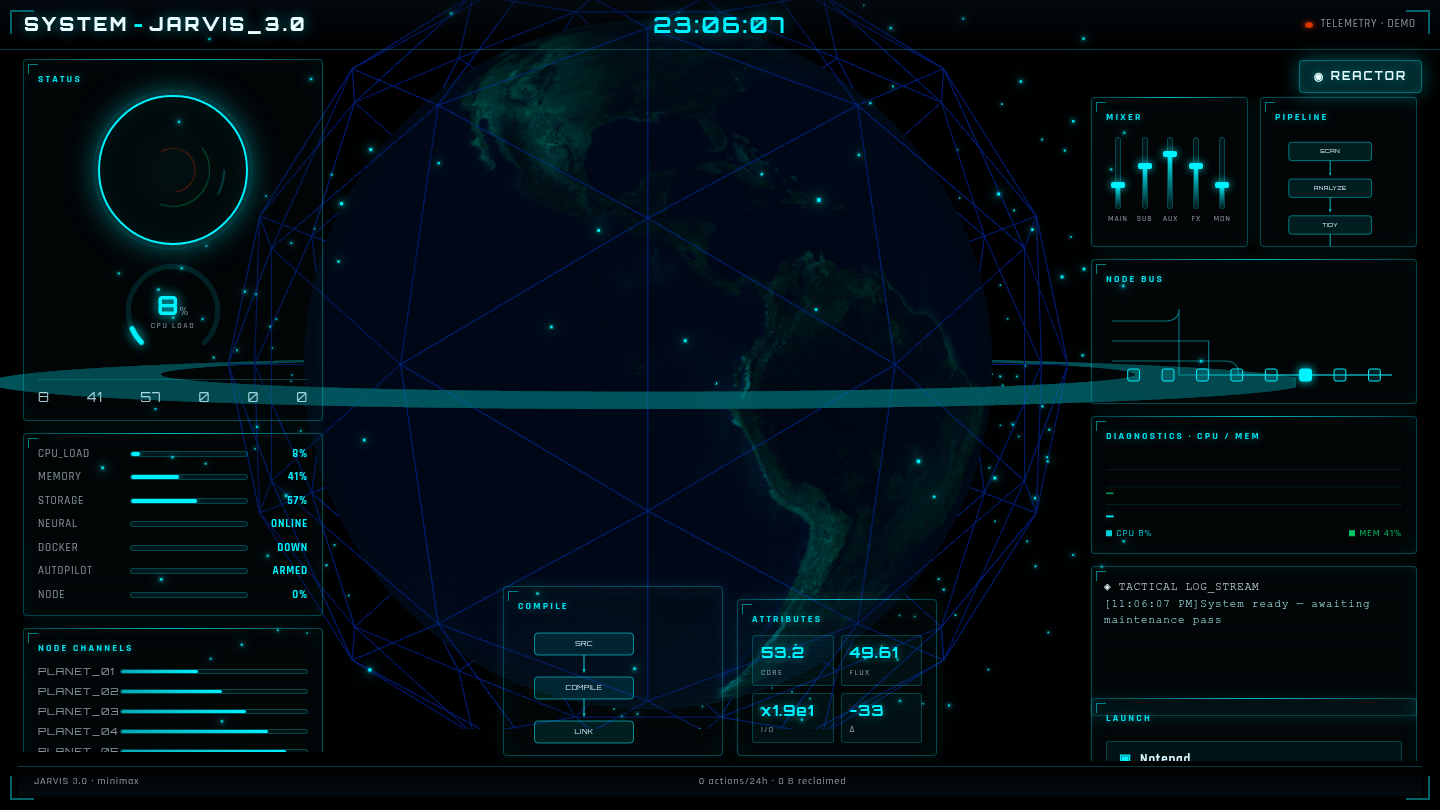
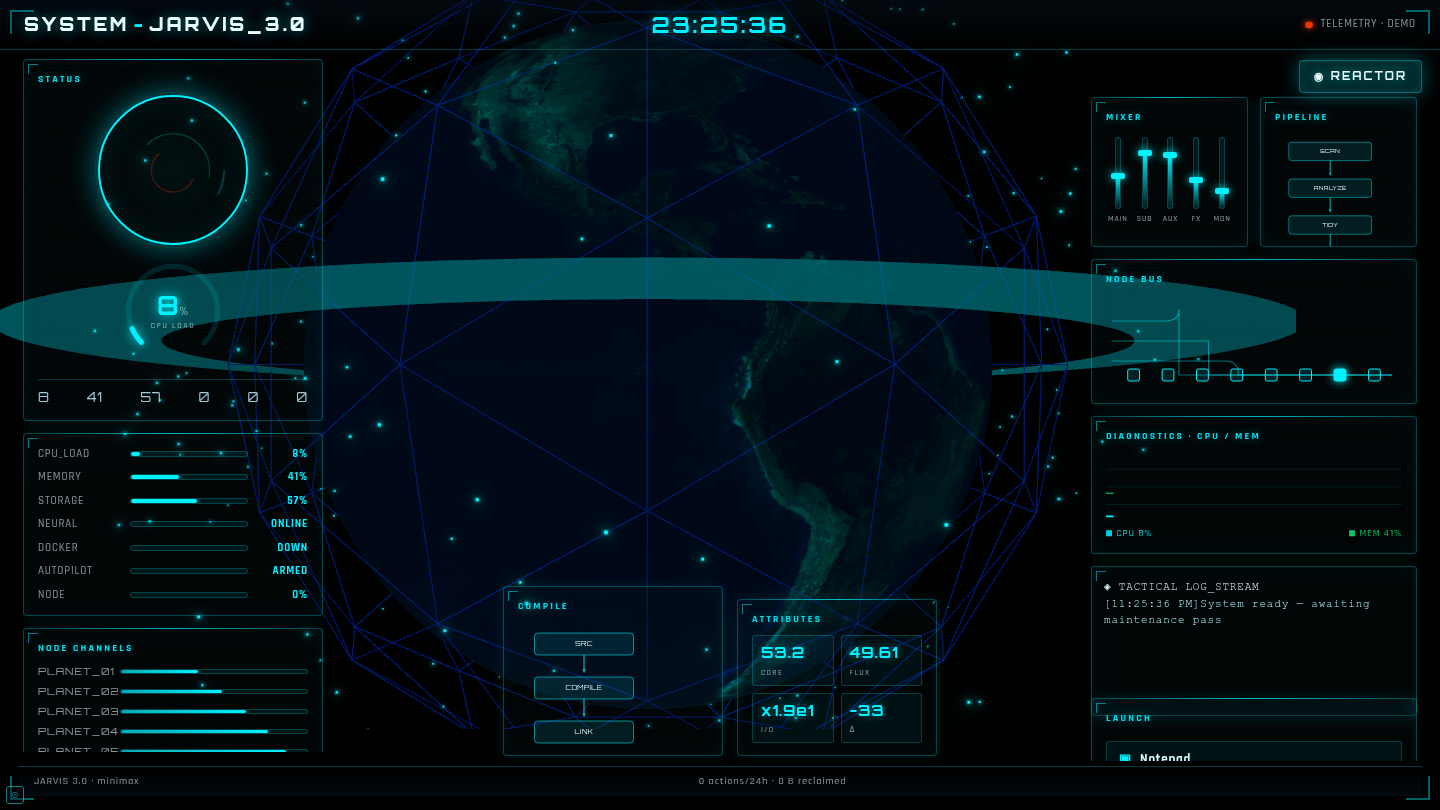
feat(dashboard): gesture debug overlay + align tsc scope to live source
The camera→MediaPipe→handTrackingRef pipeline already matched the proven
1.0.0 reference byte-for-byte (VideoFeed.tsx, mediapipeService.ts identical;
HolographicEarth + ReactorCore read rotationControl/expansionFactor/isPinching
exactly as the original). This adds the missing on-screen proof and tightens
the typecheck scope.

- Add GestureDebugOverlay (top-left, monospace, hidden by default; toggle via
  ?debug or the corner button). Polls the SAME handTrackingRef both 3D views
  consume on its own rAF loop — never triggers React re-renders — showing live
  L/R hand presence, rotationControl x/y, expansionFactor %, and pinch state.
- Mount it once at App level beside VideoFeed so it stays live across the
  Reactor<->Globe toggle.
- Scope tsconfig include/exclude to the live app source so `tsc --noEmit`
  passes 0 errors without type-checking the _gesture_reference/ snapshot (kept
  intact as the source of truth) or the electron build/ helpers.
- Extend _verify.mjs to assert the overlay is hidden by default and renders all
  fields with ?debug; capture _verify_debug_overlay.png.

Camera-absent path is the reference's own graceful catch: no crash, consumers
fall back to ambient animation. Verified headless (no webcam): build exit 0,
tsc 0 errors, reactor+globe render+toggle, overlay renders, 0 fatal errors.

diff --git a/lib/dashboard_app/components/GestureDebugOverlay.tsx b/lib/dashboard_app/components/GestureDebugOverlay.tsx
@@ -1,0 +1,107 @@
+import React, { useEffect, useRef, useState } from 'react';
+import { HandTrackingState } from '../types';
+
+interface GestureDebugOverlayProps {
+  handTrackingRef: React.MutableRefObject<HandTrackingState>;
+}
+
+// Live proof the camera → MediaPipe → handTrackingRef pipeline is wired
+// end-to-end. handTrackingRef is mutated every frame by <VideoFeed> and never
+// triggers React re-renders, so this overlay polls it on its own rAF loop and
+// mirrors the exact values both the reactor and globe consume. Hidden by
+// default; shown when the URL has ?debug or the user clicks the corner button.
+const GestureDebugOverlay: React.FC<GestureDebugOverlayProps> = ({ handTrackingRef }) => {
+  const [visible, setVisible] = useState(() => {
+    try { return new URLSearchParams(window.location.search).has('debug'); } catch { return false; }
+  });
+
+  // Snapshot of the ref, refreshed on a rAF loop only while visible.
+  const [snap, setSnap] = useState<HandTrackingState>({ leftHand: null, rightHand: null });
+  const rafRef = useRef<number | null>(null);
+
+  useEffect(() => {
+    if (!visible) return;
+    let mounted = true;
+    const tick = () => {
+      if (!mounted) return;
+      const s = handTrackingRef.current;
+      setSnap({ leftHand: s.leftHand, rightHand: s.rightHand });
+      rafRef.current = requestAnimationFrame(tick);
+    };
+    rafRef.current = requestAnimationFrame(tick);
+    return () => {
+      mounted = false;
+      if (rafRef.current) cancelAnimationFrame(rafRef.current);
+    };
+  }, [visible, handTrackingRef]);
+
+  const { leftHand, rightHand } = snap;
+  const fmt = (n: number) => (n >= 0 ? ' ' : '') + n.toFixed(2);
+  const rc = rightHand?.rotationControl ?? { x: 0, y: 0 };
+  const expPct = Math.round((leftHand?.expansionFactor ?? 0) * 100);
+  const pinch = (leftHand?.isPinching ?? false) || (rightHand?.isPinching ?? false);
+
+  return (
+    <>
+      {/* Tiny always-present toggle (bottom-left corner) so the overlay is
+          reachable without editing the URL. */}
+      <button
+        type="button"
+        onClick={() => setVisible((v) => !v)}
+        aria-pressed={visible}
+        title="Toggle gesture debug overlay"
+        style={{
+          position: 'fixed',
+          left: 6,
+          bottom: 6,
+          zIndex: 9999,
+          width: 18,
+          height: 18,
+          lineHeight: '16px',
+          fontFamily: 'monospace',
+          fontSize: 11,
+          color: visible ? '#050A14' : '#1AE6F5',
+          background: visible ? '#1AE6F5' : 'rgba(5,10,20,0.6)',
+          border: '1px solid #1AE6F5',
+          borderRadius: 3,
+          cursor: 'pointer',
+          padding: 0,
+          opacity: 0.55,
+        }}
+      >
+        ⊙
+      </button>
+
+      {visible && (
+        <div
+          data-testid="gesture-debug-overlay"
+          style={{
+            position: 'fixed',
+            top: 8,
+            left: 8,
+            zIndex: 9998,
+            fontFamily: 'monospace',
+            fontSize: 11,
+            lineHeight: 1.45,
+            color: '#1AE6F5',
+            background: 'rgba(5,10,20,0.78)',
+            border: '1px solid rgba(26,230,245,0.45)',
+            borderRadius: 4,
+            padding: '6px 8px',
+            pointerEvents: 'none',
+            whiteSpace: 'pre',
+            textShadow: '0 0 4px rgba(26,230,245,0.5)',
+          }}
+        >
+          <div style={{ color: '#FFC800', fontWeight: 700 }}>GESTURE DEBUG</div>
+          <div>L hand : {leftHand ? 'YES' : 'no '}   R hand : {rightHand ? 'YES' : 'no '}</div>
+          <div>rotX   : {fmt(rc.x)}   rotY : {fmt(rc.y)}</div>
+          <div>expand : {String(expPct).padStart(3, ' ')}%</div>
+          <div>pinch  : <span style={{ color: pinch ? '#FF2633' : '#668494' }}>{pinch ? 'PINCH' : '----'}</span></div>
+        </div>
+      )}
+    </>
+  );
+};
+
+export default GestureDebugOverlay;

diff --git a/lib/dashboard_app/App.tsx b/lib/dashboard_app/App.tsx
@@ -6,6 +6,7 @@ import HolographicEarth from './components/HolographicEarth';
 import JarvisHUD from './components/JarvisHUD';
 import JarvisIntro from './components/JarvisIntro';
 import VideoFeed from './components/VideoFeed';
+import GestureDebugOverlay from './components/GestureDebugOverlay';
 import { useStats, pct01 } from './hooks/useStats';
 import { HandTrackingState } from './types';
 
@@ -146,6 +147,10 @@ const App: React.FC = () => {
 
       {/* JARVIS-3.0 desktop HUD (NeoCore-based, real /api/stats) */}
       <JarvisHUD stats={stats} />
+
+      {/* Live gesture-pipeline proof — reads the SAME handTrackingRef both 3D
+          views consume. Hidden unless ?debug or the corner toggle is active. */}
+      <GestureDebugOverlay handTrackingRef={handTrackingRef} />
     </div>
   );
 };
